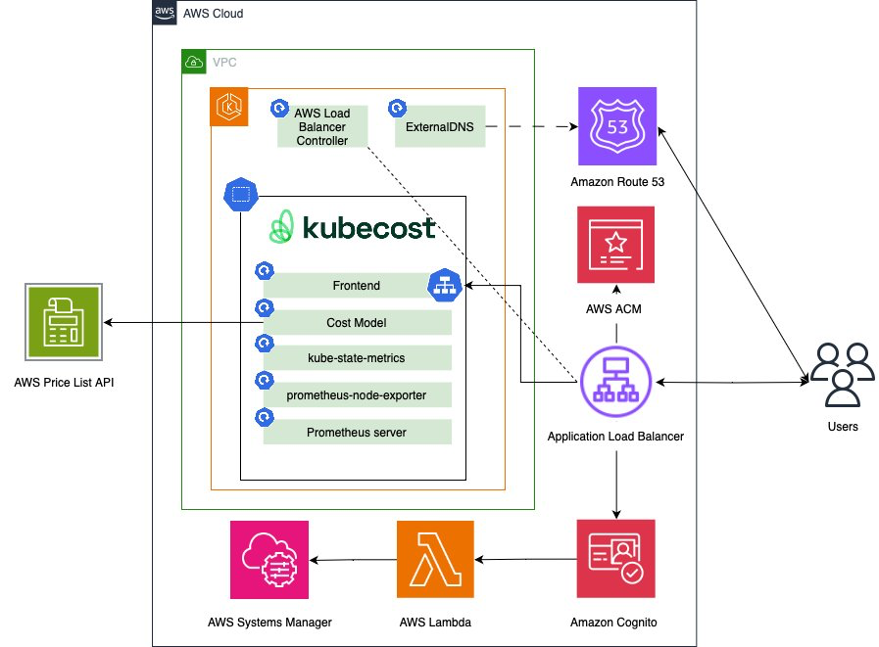
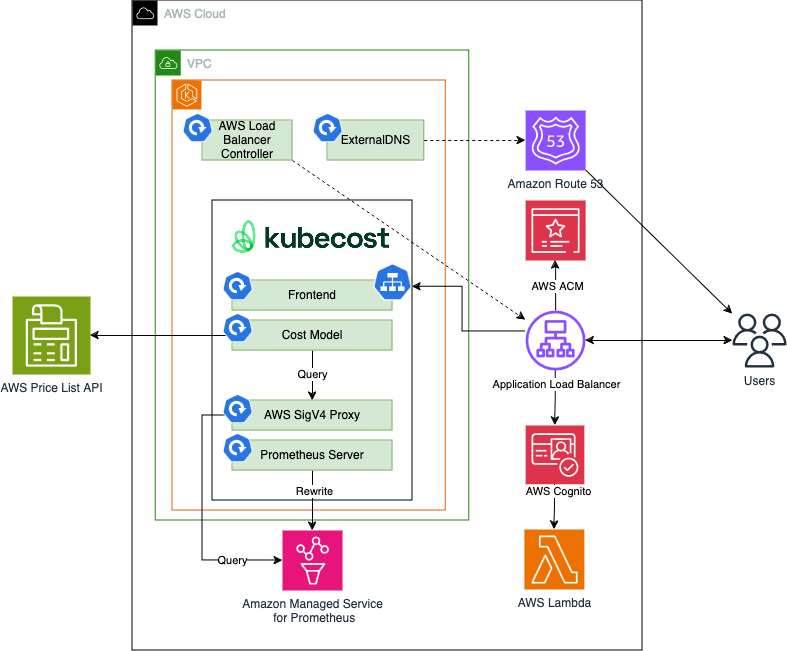
update architecture diagram

Changed region(s): [[0.0, 0.0, 1.0, 1.0], [0.8844, 0.4328, 0.9149, 0.4637], [0.8539, 0.4637, 0.8844, 0.4946]]

diff --git a/lib/single-new-eks-cost-monitoring-pattern/index.ts b/lib/single-new-eks-cost-monitoring-pattern/index.ts
@@ -124,7 +124,6 @@ export default class SingleNewEksCostMonitoringPattern extends cdk.Stack {
             }
         };
 
-        Reflect.defineMetadata("ordered", true, blueprints.addons.GrafanaOperatorAddon);
         const addOns: Array<blueprints.ClusterAddOn> = [
             new blueprints.addons.CloudWatchLogsAddon({
                 logGroupPrefix: `/aws/eks/${stackId}`,
@@ -149,7 +148,6 @@ export default class SingleNewEksCostMonitoringPattern extends cdk.Stack {
             new KubeCostExtensionAddon({
                 namespace:"kubecost",
                 version:"1.108.1",
-                // kubecostToken: blueprints.utils.valueFromContext(scope, "kubecost.token", "tokenValue"),
                 values: {
                     global: {
                         amp: {

diff --git a/docs/patterns/single-new-eks-observability-accelerators/single-new-eks-cost-monitoring-ingress-observability.md b/docs/patterns/single-new-eks-observability-accelerators/single-new-eks-cost-monitoring-ingress-observability.md
@@ -63,15 +63,12 @@ At step 8, execute the following
 make build
 make pattern single-new-eks-cost-monitoring deploy single-new-eks-cost-monitoring-observability-accelerator
 ```
-
-## Updating CNAME record for Route53
+## Verifying A record for Route53
 
 Open the AWS console once the deployment is complete. 
 Navigate to EC2>AWS Load Balancer. Select the newly created load balancer and copy to the DNS A Record to your clipboard.
 Navigate to Route53 in AWS console and select the hosted zone you want to use for the deployment. 
-Add new CNAME record type. 
-Set name as the DEV_SUBZONE_NAME defined previously and value as the load balancer DNS A record copied to your clipboard.
-Wait 60 seconds for DNS to get propogated.
+Verify the entry of the DEV_SUBZONE_NAME defined previously and value as the load balancer DNS A record copied to your clipboard.
 
 ## Verify the resources
 
